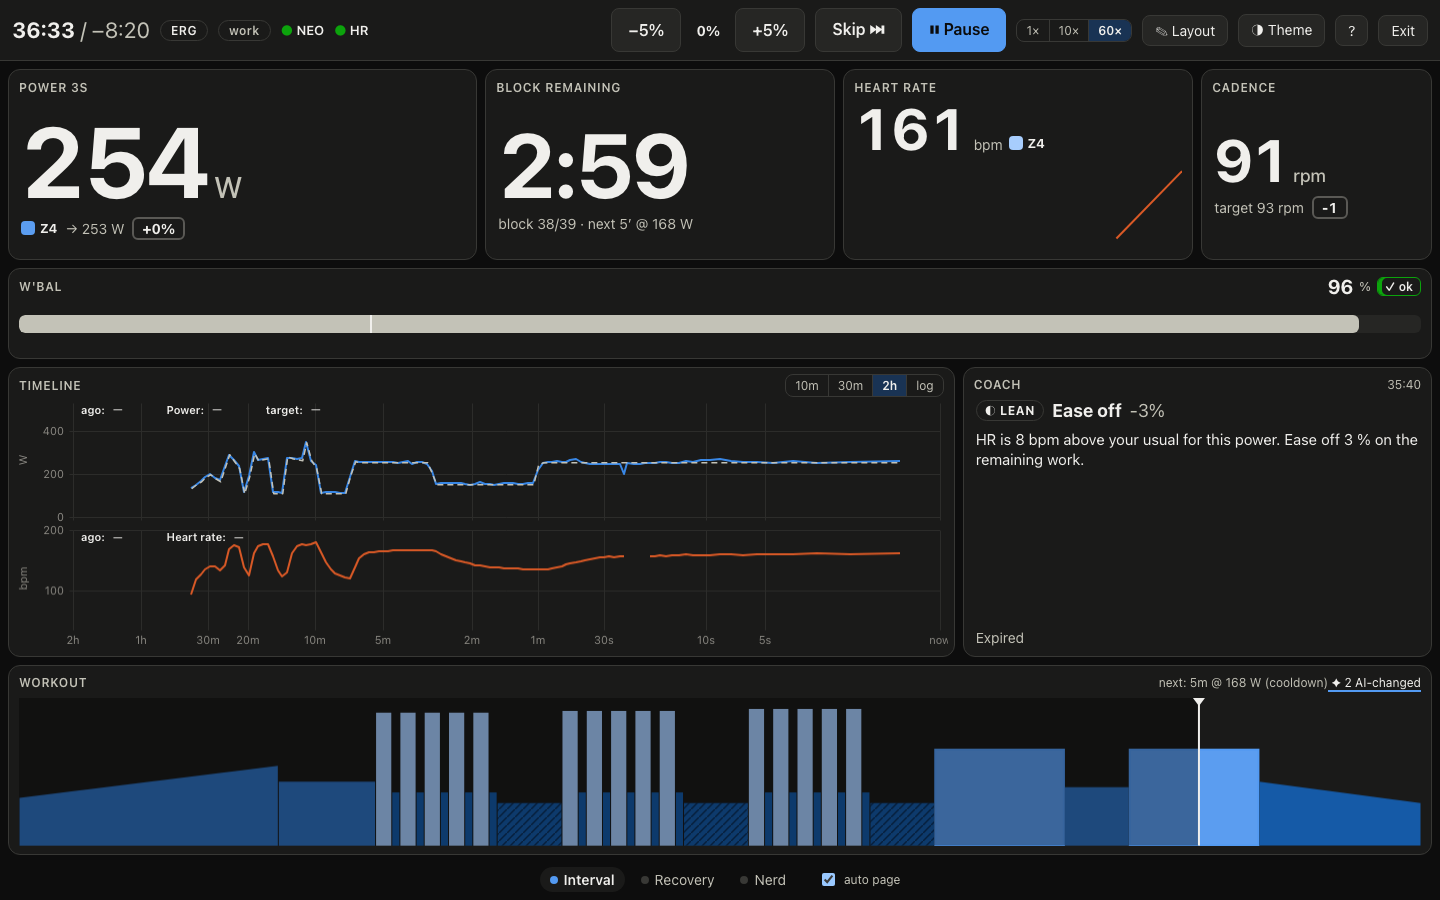
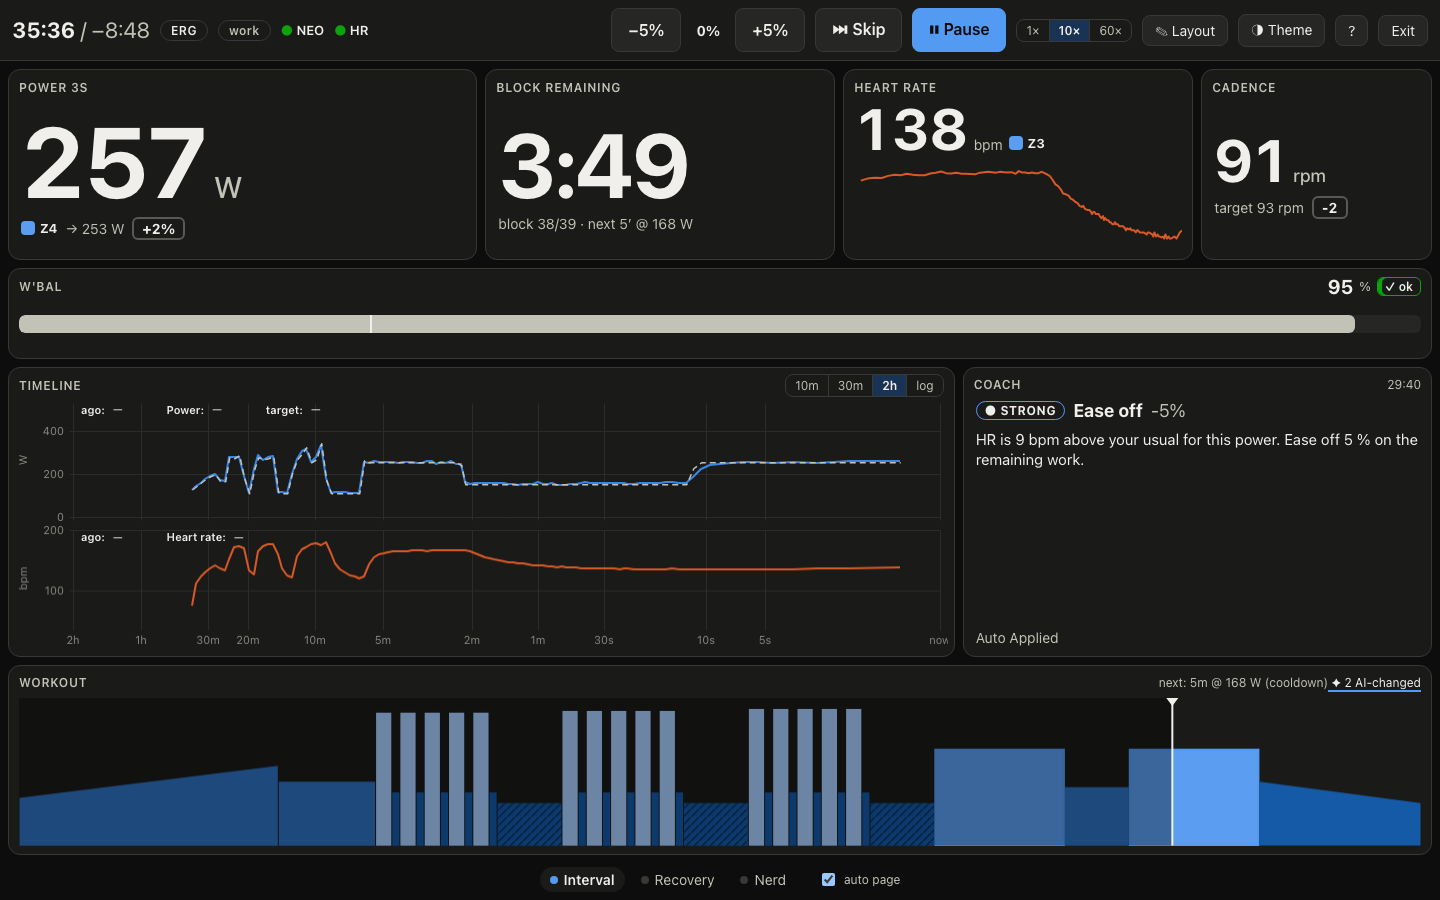
spike/react: README, shots (dark+light), tablet top bar, sparkline history seed, a11y labels

diff --git a/spikes/react/src/ride/TopBar.tsx b/spikes/react/src/ride/TopBar.tsx
@@ -48,18 +48,20 @@ export function TopBar(props: { editing: boolean; onEdit: () => void; onHelp: ()
         <span className="offset">{offset > 0 ? "+" : ""}{offset}%</span>
         <button type="button" className="btn big" onClick={() => { backend.ride.adjust(5); }} title="+5 % (key +)">+5%</button>
       </div>
-      <button type="button" className="btn big" onClick={() => { backend.ride.skipBlock(); }} title="Skip block (S)">Skip ⏭</button>
+      <button type="button" className="btn big" onClick={() => { backend.ride.skipBlock(); }} title="Skip block (S)" aria-label="Skip block">⏭<span className="lbl"> Skip</span></button>
       <button
         type="button"
         className="btn big primary"
         title="Pause / resume (space)"
+        aria-label={riding ? "Pause" : "Ride"}
         onClick={() => {
           if (riding) backend.ride.pause();
           else if (state === "paused") backend.ride.resume();
           else if (state === "idle") backend.ride.start();
         }}
       >
-        {riding ? "⏸ Pause" : state === "finished" ? "Done" : "▶ Ride"}
+        {riding ? "⏸\uFE0E" : state === "finished" ? "✓" : "▶\uFE0E"}
+        <span className="lbl">{riding ? " Pause" : state === "finished" ? " Done" : " Ride"}</span>
       </button>
       <div className="seg" aria-label="simulation speed">
         {([1, 10, 60] as const).map((s) => (
@@ -68,8 +70,8 @@ export function TopBar(props: { editing: boolean; onEdit: () => void; onHelp: ()
           </button>
         ))}
       </div>
-      <button type="button" className={`btn ${props.editing ? "primary" : ""}`} onClick={props.onEdit} title="Edit layout (E)">
-        ✎ Layout
+      <button type="button" className={`btn ${props.editing ? "primary" : ""}`} onClick={props.onEdit} title="Edit layout (E)" aria-label="Edit layout">
+        ✎<span className="lbl"> Layout</span>
       </button>
       <ThemeMenu />
       <button type="button" className="btn" onClick={props.onHelp} title="Shortcuts (?)">?</button>

diff --git a/spikes/react/src/ride/widgets/NumberSparkline.tsx b/spikes/react/src/ride/widgets/NumberSparkline.tsx
@@ -1,5 +1,6 @@
-import { useRef } from "react";
-import { useMetricCallback } from "../../lib/live";
+import { useEffect, useRef } from "react";
+import { backend } from "../../backend";
+import { getStatus, useMetricCallback } from "../../lib/live";
 import { fmtValue } from "../../lib/format";
 import { useCanvas } from "../../charts/useCanvas";
 import { useChartTheme } from "../../theme/theme";
@@ -52,12 +53,21 @@ export function NumberSparkline({ widget }: WidgetProps) {
     ctx.stroke();
   }, theme);
 
+  // Seed from the multi-resolution history so a remounted widget (page switch) isn't empty.
+  useEffect(() => {
+    const now = getStatus()?.t ?? 0;
+    const hist = backend.history({ metric: m.id, spanS, buckets: 120, scale: "fisheye" });
+    buf.current = hist.map((b) => ({ t: now - b.tAgo - b.dur / 2, v: b.mean }));
+    redraw();
+  }, [m.id, spanS, redraw]);
+
   // The line gets its own subscription at ≥ 4 Hz so it stays dense at 10×/60×;
   // the number updates at the widget's display rate.
   useMetricCallback(m.id, Math.max(4, widget.rateHz), widget.filter, (s) => {
     const pts = buf.current;
     const prev = pts[pts.length - 1];
-    if (prev && s.t < prev.t) pts.length = 0; // workout reloaded
+    if (prev && s.t < prev.t - 5) pts.length = 0; // workout reloaded
+    if (prev && s.t <= prev.t) return;
     pts.push(s);
     while (pts.length > 2 && (pts[0]?.t ?? 0) < s.t - spanS) pts.shift();
     redraw();

diff --git a/spikes/react/src/theme/ThemeMenu.tsx b/spikes/react/src/theme/ThemeMenu.tsx
@@ -9,8 +9,8 @@ export function ThemeMenu() {
   const [open, setOpen] = useState(false);
   return (
     <div className="popover-anchor">
-      <button type="button" className="btn" aria-expanded={open} onClick={() => { setOpen(!open); }} title="Theme">
-        ◑ Theme
+      <button type="button" className="btn" aria-expanded={open} onClick={() => { setOpen(!open); }} title="Theme" aria-label="Theme">
+        ◑<span className="lbl"> Theme</span>
       </button>
       {open && (
         <div className="popover" role="dialog" aria-label="Theme">

diff --git a/spikes/react/src/app.css b/spikes/react/src/app.css
@@ -1498,3 +1498,22 @@ label.inline input {
     grid-template-columns: repeat(2, minmax(0, 1fr));
   }
 }
+.popover {
+  max-width: calc(100vw - 16px);
+}
+@media (max-width: 1200px) {
+  .topbar {
+    flex-wrap: nowrap;
+    gap: 6px;
+    padding: 6px 8px;
+  }
+  .topbar .lbl {
+    display: none;
+  }
+  .topbar .btn.big {
+    padding: 8px 10px;
+  }
+  .topbar .conn .small {
+    display: none;
+  }
+}

diff --git a/spikes/react/README.md b/spikes/react/README.md
@@ -1,0 +1,140 @@
+# neo-trainer · React 19 UI spike
+
+The full spike UI (UX-SPEC / VIEWS §5) in **React 19.3** with the **React Compiler** on,
+running against the mock backend `@neo/shared`.
+
+```sh
+pnpm install                      # at the repo root
+pnpm -C spikes/react dev          # http://localhost:5173 — the demo ride auto-plays at 10×
+pnpm -C spikes/react check        # tsc -b + eslint (react-hooks incl. compiler rules), 0 warnings allowed
+pnpm -C spikes/react build
+pnpm -C spikes/react shots        # starts its own Vite server, writes shots/*.png (dark + light), ~100 s
+node spikes/react/scripts/gen-themes.mjs   # regenerate + re-validate theme tokens
+```
+
+URL knobs (handy for demos/screens): `?speed=1|10|60`, `?autostart=0`, `?mode=dark|light|auto`,
+`?theme=graphite|ocean|ember`, `?zones=classic`; routes `#/ride`, `#/ride?page=nerd`, `#/ride?edit=1`,
+`#/editor`, `#/checkin`, `#/review`.
+
+## Stack and libraries
+
+| lib | why |
+| --- | --- |
+| react / react-dom 19.3 | the framework under test |
+| babel-plugin-react-compiler 1.0 via `@rolldown/plugin-babel` + `reactCompilerPreset` | the compiler (Vite 8's plugin-react no longer runs Babel itself) |
+| uplot | time series / line charts (P04, P05, P09) as required |
+| eslint-plugin-react-hooks 7 (`recommended-latest`) | rules-of-hooks, exhaustive-deps (as error) and all React Compiler rules (`refs`, `purity`, `immutability`, `set-state-in-effect`, …) |
+| typescript-eslint `strictTypeChecked`, eslint-plugin-react-refresh | type-aware lint, no `any`, fast-refresh boundaries |
+| playwright | `pnpm shots` |
+
+No UI kit, no DnD or grid-layout library: grid drag/resize is ~60 lines of pointer events, the outline uses
+native HTML5 drag and drop. TypeScript is pinned to 5.9 (TS 7 has no JS API yet, which typescript-eslint needs).
+`prek` hook: `.pre-commit-config.yaml` runs `pnpm check`.
+
+## Architecture (how telemetry stays out of React)
+
+- `lib/live.ts`: every widget owns its subscription. Numbers use `useMetric()` (one external store
+  per subscription, read with `useSyncExternalStore`), so **only that leaf re-renders, at its own rate**.
+  Charts/sparklines use `useMetricCallback()` (`useEffect` + `useEffectEvent`) and draw imperatively.
+  Ride status and nudges are one backend listener each, read through selectors.
+- Measured, not assumed: over 10 s at 10× on the Interval page, `RideScreen`, `PageGrid`, `TopBar`, the
+  log-time chart, sparkline and strip rendered **0 times**; the three `BigNumber`s rendered exactly at
+  their subscribed rates (16 Hz × 10 s, doubled by StrictMode in dev).
+- `charts/useUPlot.ts` / `useCanvas.ts`: React 19 **callback refs with cleanup** create/destroy the chart
+  with the element (works for conditionally mounted canvases too); `setData` is imperative; analytics are
+  polled per the budget (`usePoll`: history ≤ 1 Hz, histogram/heatmap ≤ 0.5 Hz, mmp ≤ 0.2 Hz,
+  hrRecovery 1–2 Hz only in the recovery phase).
+- Theme: CSS tokens (`theme/tokens.css`, generated). `theme/theme.ts` keeps prefs in a tiny store, reads
+  tokens with `getComputedStyle` into a `ChartTheme` object on every change (incl. OS scheme for Auto);
+  charts take it as a dependency, so switching is live and repaints every canvas/uPlot.
+- Editor: one `useReducer` (tree is the truth, DSL text derived; while typing in the DSL the text leads and
+  the tree follows on each successful parse), snapshots for undo/redo across all three views, context via
+  React 19 `<Context value>` + `use()`. AI rewrite uses an **async transition** (`useTransition`) for the
+  planner latency; check-in is a **form action** with `useActionState`.
+
+## Scope status
+
+| # | item | status |
+| --- | --- | --- |
+| 1 | Ride screen: 12-col widget grid from `Layout` data, Interval/Recovery/Nerd pages, auto page by phase (toggle, key A), ←/→, swipe, page dots; all 10 widget kinds; per-widget rate + filter subscriptions; top bar (elapsed/remaining, ERG, NEO/HR status, ±5 %, skip, pause, 1/10/60×); shortcuts + `?` overlay | done |
+| 2 | HR recovery: observed dots, fitted curve, dotted prediction + 90 % band, target line, ready-in ≈ m:ss (lo–hi), τ vs usual τ with status tag, unreachable warning | done |
+| 3 | Editor: SVG profile (drag right edge = duration, drag top = power, hatched open-ended blocks + range whisker), outline (collapse, DnD before/after/into repeats, inline label/count/+W per rep/!last, step fields edited as their DSL spec), DSL textarea with in-place error highlight + line/col, summary (duration range, TSS, IF, time-in-zone, issues → click selects node), undo/redo ⌘Z/⇧⌘Z, wrap ⌘G, unwrap ⇧⌘G, duplicate ⌘D, delete, AI vary/harder/easier/shorter → ghost-vs-new profile diff + outline highlight → accept/reject, snippets (seed + save selection, localStorage) | done |
+| 4 | Layout edit mode: drag/resize on the grid, add (kind × metric catalogue)/remove widgets, settings (kind, metrics, rate 0.1–10 Hz log slider, filter chain editor, colour-by-zone, span, log/fisheye), add page, save, reset to default | done |
+| 5 | Check-in → proposal: 4 × 1–5 tap rows, 30/45/60/90/custom, note, readiness tiles (P23-ish), proposal with profile mini + rationale → accept & ride / regenerate / edit in editor | done |
+| 6 | Review: summary tiles, P05 stacked panels (power+target/HR/cadence/DFA-α1 with P14 bands/W'bal) with workout bands, coach markers, brush-select → interval stats + zoom; P20 decision list with 👍/👎 → `coach.rate`; P09, P07, P06 ×2, P16 fatigue scatter, P12 τ per block, laps table | done |
+
+Themes: Dark/Light/Auto × Graphite/Ocean/Ember + Classic-zones toggle, switcher in the ◑ Theme popover (top bar and rail).
+All zone/fatigue ramps and series slots are generated in OKLCH and **validated with the dataviz validator at
+generation time** (`scripts/gen-themes.mjs` exits non-zero on a hard fail; report in `src/theme/palette-report.txt`).
+Light zone ramps had to be darkened at the pale end to clear the 2:1 floor — the validator caught that.
+
+Not done / partial:
+- No in-page validator for *custom* themes (only presets are required); OLED/high-contrast variants not built.
+- Table-view toggle exists on histogram, heatmap and MMP; the review's P05/P16/τ plots rely on the laps table instead.
+- Hover: per-mark tooltips on histogram/heatmap; uPlot plots use a live legend readout + synced crosshair, not floating tooltips.
+- P04 has no piecewise fisheye *controls* beyond a log ↔ fisheye toggle; P09 has no model fit (out of scope).
+- Layout editor: no collision avoidance (widgets may overlap if you drop them so), no per-page `autoPhase` editor.
+- Tablet: the tablet layout is picked below 1200 px wide and the top bar compacts; the strip-into-top-bar rule from VIEWS §4 is not implemented.
+- No unit tests of the editor tree ops (exercised through Playwright flows only).
+
+## Where React helped
+
+1. **External stores + `useSyncExternalStore`**: per-widget subscriptions map 1:1 onto the backend's
+   `subscribe`; a widget is literally `useMetric(metric, rateHz, filter)`. Isolation of re-renders falls out
+   of the component tree, and it's measurable (above).
+2. **React Compiler + its lint rules**: no hand-written `useMemo`/`useCallback` soup in widgets, and the
+   rules caught real mistakes (see below). JSX-literal widget configs in the review stay referentially stable.
+3. **React 19 primitives fit the async bits**: `useActionState` form action for check-in, async
+   `useTransition` for the AI rewrite (`isPending` for free), callback refs with cleanup for uPlot/canvas
+   lifecycles, `useEffectEvent` for keyboard handlers and subscriptions that need fresh state without
+   resubscribing. One reducer + context made "edit in any view updates all + undo across views" easy.
+
+## Where React hurt
+
+1. **Effect/ref ceremony around imperative charts.** Anything that must not re-render needs refs, effect
+   events, "latest value in a layout effect" or callback refs — and the compiler's `refs` rule forbids
+   the obvious ref-in-options pattern, so uPlot zoom had to move into an effect (`setXRange`).
+   `useEffectEvent` can't be called from a `useCallback`, which is exactly what a `redraw()` wants.
+2. **StrictMode and React 19 semantics bite silently.** The reducer initializer runs twice (it consumed a
+   one-shot hand-off store → fixed by consuming it in an effect); React 19 **resets uncontrolled forms after
+   an action** (check-in chips snapped back to defaults → defaults now follow the last submission). Neither
+   was caught by lint or types; both only by screenshots.
+3. **`useEffect` + `useRef` doesn't notice late-mounted elements**: the HR recovery canvas (rendered only once
+   data exists) was never observed; switching to callback refs fixed it. Also fast-refresh rules force
+   splitting helpers out of component files (5 extra small modules).
+
+## Linter / typechecker catches of framework-specific mistakes: 8
+
+- `react-hooks/rules-of-hooks` + compiler `preserve-manual-memoization` (1): calling a `useEffectEvent` from
+  a `useCallback` redraw in `useCanvas`.
+- `react-hooks/refs` (2, one incident): passing a ref and a closure reading `ref.current` into an options
+  builder that runs during render (review P05 zoom).
+- `react-refresh/only-export-components` (5): exporting helpers (`zoneOf`, `bucketsToTable`, `toMmpData`,
+  `paintRecovery`, `respondLatest`) from component files.
+
+Example: `RideTimeline.tsx` — `useMemo(() => panelOpts(…, rangeRef, …))` → *"Cannot access refs during render"*;
+fixed by keeping the range in state and applying it with `u.setScale` in an effect.
+
+## Backend issues / contract notes
+
+- Before `streams()`/`recoveries()` landed there was no full-ride record or per-block recovery history; now
+  used as intended (incremental `streams(metrics, previous.toS)` at 1 Hz in `review/record.ts`).
+- No actual block start/end times in the contract (only expected `FlatBlock.startS`, which drifts with
+  HR-guided recoveries and skips). Laps are derived from the recorded `block_index` stream.
+- `subscribe` rate is wall-clock: at 60× a 1 Hz display gives one point per 60 ride-seconds, so sparklines use a
+  second, ≥ 4 Hz subscription for the line and the widget rate for the number.
+- `coach.rate(callId, rating, useful)`: the UI has only 👍/👎, mapped to `right`/`wrong` with `useful = right`.
+- Uses presentation helpers exported by `@neo/shared` (`timeAgoToU`/`uToTimeAgo`/`timeAgoTicks`, `zoneIndex`,
+  `reId`) and `demoWorkout` as the editor's fallback; the shared README sanctions these.
+- uPlot ships `Distr` as an ambient `const enum`, unusable under `isolatedModules`; one justified
+  `eslint-disable` line in `MmpWidget.tsx`.
+
+## Size
+
+`find src -name '*.*' | xargs wc -l` → **5670** total (incl. 185 lines of generated `tokens.css` and
+~1500 lines of CSS). Scripts (`gen-themes`, `shots`) not included.
+
+## Screenshots (`shots/`, each in `-dark` and `-light`)
+
+`ride-interval` (threshold interval, coach nudge), `ride-recovery` (during the first hr< block),
+`ride-nerd`, `editor-nested-selected`, `editor-ai-diff`, `layout-edit`, `checkin`, `review` (full page).
